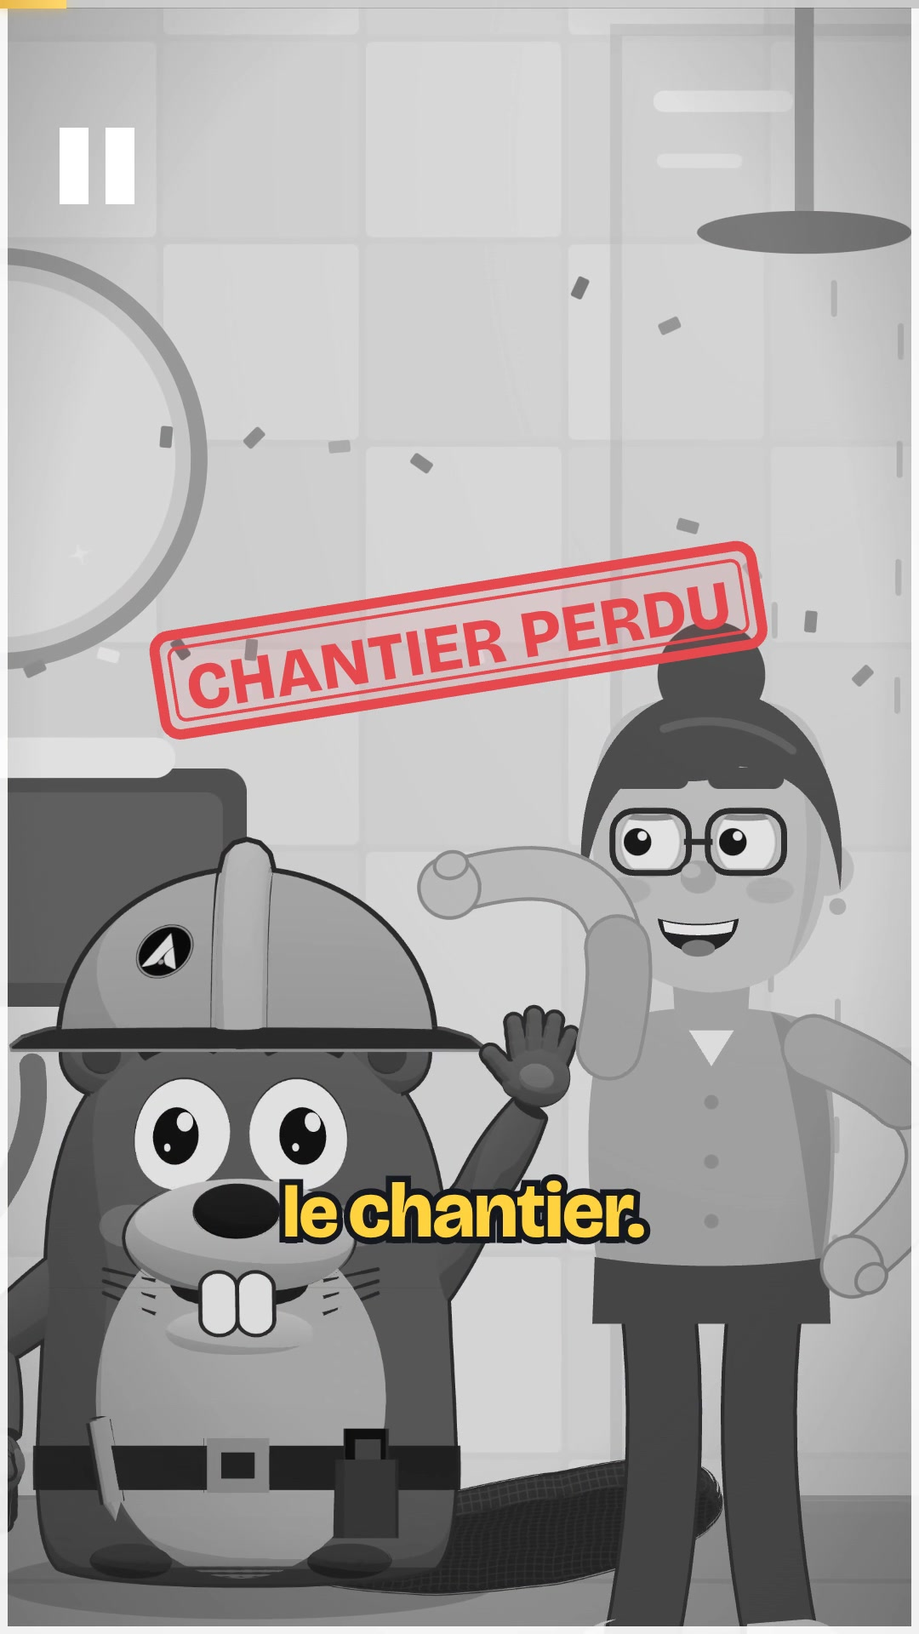
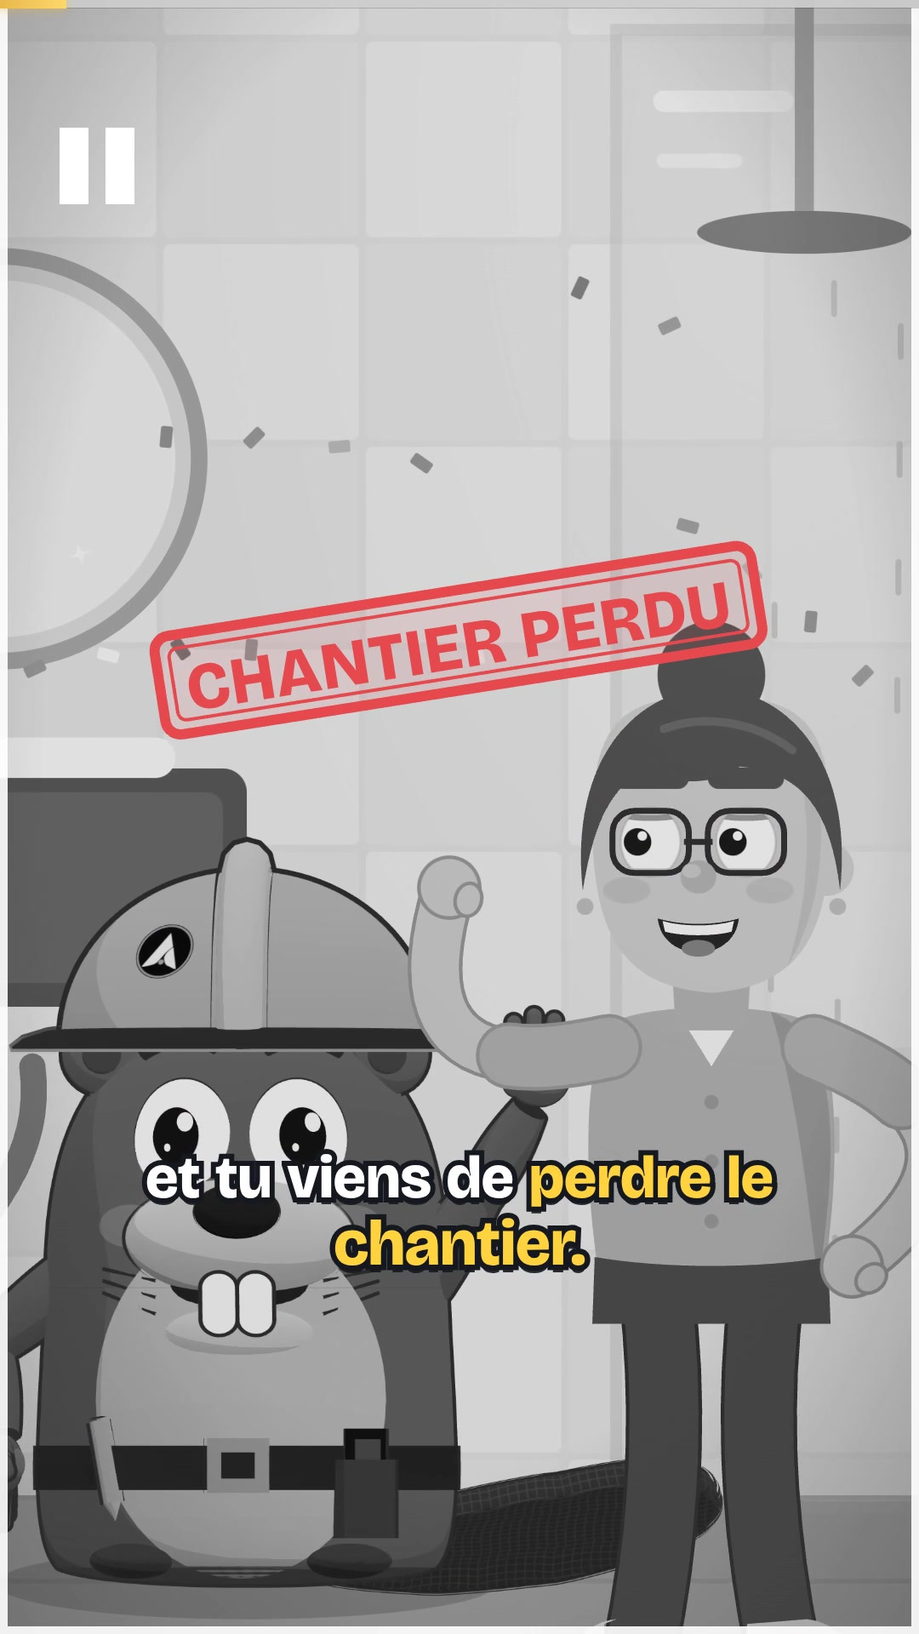
Épisode 2 V2 : bras de la cliente, flash-back 48 H AVANT, sous-titres sur deux lignes, coupe du Toi et des bruits parasites, nouvelle phrase finale
Claude-Session: https://claude.ai/code/session_01QEecSGPaSS2i4pfHtVUcyd

Changed region(s): [[0.1528, 0.5, 0.8556, 0.7812]]

diff --git a/aurea-media/creations/episodes/ep02/scenes.js b/aurea-media/creations/episodes/ep02/scenes.js
@@ -79,6 +79,9 @@ function construireScenes() {
     <filter id="nb"><feColorMatrix id="nbM" type="saturate" values="1"/></filter>
     <filter id="flouFond" x="-5%" y="-5%" width="110%" height="110%"><feGaussianBlur stdDeviation="5"/></filter>
     <filter id="flouPhoto" x="-20%" y="-20%" width="140%" height="140%"><feGaussianBlur stdDeviation="7"/></filter>
+    <filter id="fb" x="-8%" y="-8%" width="116%" height="116%"><feTurbulence id="fbTurb" type="fractalNoise" baseFrequency="0.005 0.02" numOctaves="2" seed="7" result="n"/><feDisplacementMap id="fbDisp" in="SourceGraphic" in2="n" scale="0" xChannelSelector="R" yChannelSelector="G" result="d"/><feColorMatrix id="fbSep" in="d" type="matrix" values="1 0 0 0 0  0 1 0 0 0  0 0 1 0 0  0 0 0 1 0"/></filter>
+    <radialGradient id="fbVig" cx=".5" cy=".46" r=".72"><stop offset=".55" stop-color="#2a1606" stop-opacity="0"/><stop offset="1" stop-color="#2a1606" stop-opacity=".85"/></radialGradient>
+    <radialGradient id="fbFuite" cx="1" cy="0" r="1"><stop offset="0" stop-color="#ffb347" stop-opacity=".75"/><stop offset=".5" stop-color="#ff7a2c" stop-opacity=".2"/><stop offset="1" stop-color="#ff7a2c" stop-opacity="0"/></radialGradient>
     <filter id="vhs"><feOffset dx="7" in="SourceGraphic" result="r"/><feColorMatrix in="r" type="matrix" values="1 0 0 0 0  0 0 0 0 0  0 0 0 0 0  0 0 0 1 0" result="rr"/><feOffset dx="-7" in="SourceGraphic" result="b"/><feColorMatrix in="b" type="matrix" values="0 0 0 0 0  0 1 0 0 0  0 0 1 0 0  0 0 0 1 0" result="bb"/><feBlend in="rr" in2="bb" mode="screen"/></filter>
     <linearGradient id="gCiel" x1="0" y1="0" x2="0" y2="1"><stop offset="0" stop-color="#6cc0f2"/><stop offset=".7" stop-color="#bfe3f7"/><stop offset="1" stop-color="#ffe2b8"/></linearGradient>
     <linearGradient id="gTitane" x1="0" y1="0" x2="1" y2="1"><stop offset="0" stop-color="#e2ded6"/><stop offset=".15" stop-color="#8e8a82"/><stop offset=".45" stop-color="#3a3835"/><stop offset=".7" stop-color="#55524d"/><stop offset=".9" stop-color="#a19c93"/><stop offset="1" stop-color="#e2ded6"/></linearGradient>
@@ -165,7 +168,7 @@ function construireScenes() {
 const T = {};
 function reperes() {
   T.gel = M('l00', 7) - .04; T.tamp = M('l00', 11) - .02;
-  T.rw = P('l01') - .45; T.j = P('l02') - .12; T.g = P('l03') - .12; T.ap = P('l06') - .1; T.v = P('l07') - .1;
+  T.rw = P('l01') - .8; T.j = P('l02') - .12; T.g = P('l03') - .12; T.ap = P('l06') - .1; T.v = P('l07') - .1;
   T.fa = P('l08') - .1; T.vi = P('l09') - .1; T.w = P('l10') - .1; T.wJ = M('l10', 10) + .1; T.fi = P('l11') - .1; T.sd = P('l12') - .1; T.fin = CAL.finTexte;
 }
 function rendre(t) {
@@ -193,7 +196,7 @@ function rendre(t) {
   fx += lignesVitesse(t, T.g - .05, .4, 540, 960, '#fff', .6) + lignesVitesse(t, T.w - .05, .4, 540, 960, '#fff', .6);
   $('ui-fx').innerHTML = fx + window._uiSdb + window._uiTampon;
   rendreSousTitres(t);
-  $('st').style.opacity = t >= T.fin - .05 ? 0 : 1;
+  if (t >= T.fin - .05) $('st').style.opacity = 0;
   $('progression').firstElementChild.style.width = (clamp(t / CAL.duree) * 100) + '%';
 }
 
@@ -202,7 +205,7 @@ function rSdb(t) {
   let fx = '';
   const fin = t >= T.sd;
   const gele = !fin && t >= T.gel && t < T.rw, tt = gele ? T.gel : t;       // arrêt sur image
-  const rewind = !fin && t >= T.rw && t < P('l01') + .05;
+  const flashback = !fin && t >= T.rw;
   let cam;
   if (!fin) cam = piste(tt, [[0, { x: 540, y: 980, z: 1.08 }], [M('l00', 3), { x: 540, y: 930, z: 1.18 }, E.sine], [T.gel, { x: 560, y: 860, z: 1.28 }, E.sine], [P('l01'), { x: 600, y: 900, z: 1.2 }], [F('l01') + .3, { x: 640, y: 880, z: 1.32 }, E.sine]]);
   else cam = piste(t, [[T.sd, { x: 540, y: 820, z: 1.45 }], [T.fin, { x: 540, y: 960, z: 1.06 }, E.io]]);
@@ -237,8 +240,8 @@ function rSdb(t) {
     // fin douce : Gaspard fier devant son chantier, lumière chaude
     Object.assign(g, { x: 540, y: 1520, s: 1.12, tourne: .25, mainD: { x: 230, y: -330 }, formeD: 'pouce', coudeD: 1, mainG: { x: -210, y: -170 }, bouche: 'sourire', paup: .12, sourcils: .4, regardX: 0 });
     c.x = 2000;
-    fx += motCle(540, 380, 'Bon travail.', t, M('l12', 2) - .1, 1.2, '#ffd23f', 104, -3);
-    fx += etincelles(540, 600, t, M('l12', 4), 10, 300, '#ffd23f', 1);
+    fx += motCle(540, 380, 'Exceptionnel.', t, M('l12', 5) - .1, 1.3, '#ffd23f', 104, -3);
+    fx += etincelles(540, 600, t, M('l12', 5), 10, 300, '#ffd23f', 1);
   }
   PERS.gs.poser(g); PERS.cs.poser(c);
   $('sb-fx').innerHTML = fx;
@@ -246,13 +249,37 @@ function rSdb(t) {
   if (gele) { L.sdb.setAttribute('filter', 'url(#nb)'); attr('nbM', 'values', mix(1, 0, clamp((t - T.gel) / .1))); }
   let ui = '';
   if (gele) ui += `<rect width="1080" height="1920" fill="none" stroke="#fff" stroke-width="18" opacity=".9"/><g transform="translate(70,150)"><rect width="34" height="90" fill="#fff"/><rect x="54" width="34" height="90" fill="#fff"/></g>`;
-  if (rewind) {
-    const k = clamp((t - T.rw) / (P('l01') + .05 - T.rw));
-    L.sdb.setAttribute('filter', 'url(#vhs)');
-    tr(L.sdb, `translate(${Math.sin(t * 90) * 10},${(Math.sin(t * 37) > .7 ? 16 : 0)})`);
-    ui += Array.from({ length: 24 }, (_, i) => `<rect x="0" y="${i * 80 + ((t * 900) % 80)}" width="1080" height="4" fill="#fff" opacity=".12"/>`).join('');
-    ui += `<rect x="0" y="${(t * 2400) % 1920}" width="1080" height="70" fill="#fff" opacity=".18"/>`;
-    ui += `<g transform="translate(70,190)" opacity="${.6 + .4 * (Math.sin(t * 20) > 0)}"><path d="M70,0 L0,40 L70,80 Z M140,0 L70,40 L140,80 Z" fill="#fff"/><text x="170" y="64" font-family="Geist" font-weight="700" font-size="58" fill="#fff" letter-spacing="3">3 JOURS PLUS TÔT</text></g>`;
+  if (flashback) {
+    // flash-back « 48 H AVANT » : éclair blanc, l'image ondule comme un souvenir, puis sépia, vignette, grain et fuite de lumière
+    const fbA = P('l01') - .05, k = clamp((t - T.rw) / (fbA - T.rw)), onde = Math.sin(Math.PI * clamp(k * 1.1));
+    const sep = .8 * E.out(clamp(k * 1.4)), I = 1 - sep;
+    const S3 = [[.393, .769, .189], [.349, .686, .168], [.272, .534, .131]];
+    const m = S3.map((r, a) => r.map((v, b) => (I * (a === b ? 1 : 0) + sep * v * 1.05).toFixed(3)).join(' ') + ' 0 ' + (sep * .03).toFixed(3)).join('  ') + '  0 0 0 1 0';
+    L.sdb.setAttribute('filter', 'url(#fb)');
+    attr('fbSep', 'values', m);
+    attr('fbDisp', 'scale', (onde * 60).toFixed(1));
+    attr('fbTurb', 'baseFrequency', `${(.004 + .003 * k).toFixed(4)} ${(.02 + .008 * Math.sin(t * 11)).toFixed(4)}`);
+    tr(L.sdb, `translate(540,900) scale(${(1 + .22 * onde).toFixed(3)}) rotate(${(-5 * onde).toFixed(2)}) translate(-540,-900)`);
+    // éclair blanc à l'entrée
+    ui += `<rect width="1080" height="1920" fill="#fff" opacity="${(clamp(1 - Math.abs(t - T.rw - .06) / .22) * .95).toFixed(3)}"/>`;
+    // ambiance souvenir
+    ui += `<rect width="1080" height="1920" fill="url(#fbVig)" opacity="${sep.toFixed(3)}"/><rect width="1080" height="1920" fill="url(#fbFuite)" opacity="${(sep * (.55 + .25 * Math.sin(t * 2.3))).toFixed(3)}"/>`;
+    const img = Math.floor(t * 12);
+    for (let i = 0; i < 22; i++) { const h = Math.sin((img * 31 + i) * 12.9898) * 43758.5453, u = h - Math.floor(h), v = (h * 7.3) - Math.floor(h * 7.3); ui += `<circle cx="${(u * 1080).toFixed(0)}" cy="${(v * 1920).toFixed(0)}" r="${(1.5 + (i % 3) * 1.5).toFixed(1)}" fill="${i % 4 ? '#fff6e0' : '#2a1606'}" opacity="${(.5 * sep).toFixed(2)}"/>`; }
+    if (Math.sin(img * 3.7) > .6) ui += `<rect x="${(200 + (img * 97) % 700)}" y="0" width="2" height="1920" fill="#fff6e0" opacity="${(.35 * sep).toFixed(2)}"/>`;
+    // carton « 48 H AVANT » avec horloge qui tourne à l'envers, puis étiquette dans le coin
+    const ent = E.backS(clamp((t - T.rw - .08) / .35)), red = E.io(clamp((t - P('l01') - .45) / .4));
+    const cx = mix(540, 270, red), cy = mix(560, 190, red), sc = mix(1, .42, red) * ent;
+    const aig = -(t - T.rw) * 900;
+    ui += `<g transform="translate(${cx.toFixed(1)},${cy.toFixed(1)}) scale(${sc.toFixed(3)})" opacity="${clamp(ent * 1.5).toFixed(3)}">
+      <rect x="-460" y="-130" width="920" height="260" rx="34" fill="#1d1208" opacity=".82"/>
+      <rect x="-444" y="-114" width="888" height="228" rx="24" fill="none" stroke="#ffd23f" stroke-width="5" opacity=".9"/>
+      <g transform="translate(-320,0)"><circle r="84" fill="#fff6e0" stroke="#ffd23f" stroke-width="10"/>
+        ${Array.from({ length: 12 }, (_, i) => `<rect x="-3" y="-74" width="6" height="${i % 3 ? 10 : 18}" fill="#1d1208" transform="rotate(${i * 30})"/>`).join('')}
+        <rect x="-5" y="-62" width="10" height="62" rx="5" fill="#1d1208" transform="rotate(${(aig / 12).toFixed(1)})"/><rect x="-4" y="-74" width="8" height="74" rx="4" fill="#e5484d" transform="rotate(${aig.toFixed(1)})"/><circle r="9" fill="#1d1208"/>
+        <path d="M-118,-30 A120,120 0 0 1 -60,-104" fill="none" stroke="#ffd23f" stroke-width="10" stroke-linecap="round"/><path d="M-138,-44 L-116,-6 L-92,-42 Z" fill="#ffd23f"/></g>
+      <text x="-196" y="40" text-anchor="start" font-family="Bricolage" font-weight="800" font-size="118" fill="#ffd23f" letter-spacing="-2">48 H AVANT</text>
+    </g>`;
   }
   window._uiSdb = ui;
 }
@@ -286,12 +313,13 @@ function rJardin(t, mode) {
   } else if (mode === 'appel') {
     // le téléphone de Gaspard vibre : salto de joie sur « Toi »
     cam = piste(t, [[T.wJ, { x: 540, y: 1000, z: 1.5 }], [T.fi, { x: 540, y: 1040, z: 1.35 }, E.sine]]);
-    const toi = M('l10', 11) - .05, s = saut(t, toi, .26, 260), rot = t > toi ? 360 * E.io(clamp((t - toi) / .55)) : 0;
+    const toi = T.wJ + .4,   // salto quand le téléphone sonne (le « Toi » a été retiré)
+      s = saut(t, toi, .26, 260), rot = t > toi ? 360 * E.io(clamp((t - toi) / .55)) : 0;
     const h = 320, th = rot * Math.PI / 180;   // salto autour du centre du corps (et non des pieds)
     Object.assign(g, { x: 540 - h * Math.sin(th), y: 1580 + s.y - h + h * Math.cos(th), s: 1.0, sx: s.sx, sy: s.sy, rot, bouche: t > toi ? 'rire' : 'o', oeil: 1.15, paup: 0, sourcils: 1, mainD: { x: 165, y: -405 }, objetD: 'tel', formeD: 'tient', telCeinture: false, regardX: .5, regardY: -.2 });
     cl.x = 1800; vo.x = 2000;
-    fx += vibrations(540 + 200, 1580 - 420, t, t < toi, 80, '#3a1a06') + onomatopee(800, 600, 'DRIIING !', t, T.wJ, .6, '#ffd23f', 100, 8);
-    fx += motCle(540, 520, 'TOI.', t, toi, .9, '#ffd23f', 150, -6) + etincelles(540, 1100, t, toi + .5, 10, 300, '#ffd23f', .8);
+    fx += vibrations(540 + 200, 1580 - 420, t, t < toi, 80, '#3a1a06') + onomatopee(640, 600, 'DRIIING !', t, T.wJ, .6, '#ffd23f', 100, 8);
+    fx += etincelles(540, 1100, t, toi + .5, 10, 300, '#ffd23f', .8);
   } else {
     // final : tope là à trois, tampon CHANTIER GAGNÉ
     cam = piste(t, [[T.fi, { x: 540, y: 1060, z: 1.22 }], [T.sd, { x: 540, y: 1020, z: 1.34 }, E.sine]]);

diff --git a/aurea-media/creations/episodes/ep02/sous-titres.js b/aurea-media/creations/episodes/ep02/sous-titres.js
@@ -1,5 +1,7 @@
-// Sous-titres V2 : groupes courts (2 à 4 mots), apparition mot par mot avec rebond, mots-clés en jaune.
+// Sous-titres V3 : blocs plus longs (jusqu'à deux lignes, 8 mots) affichés d'un coup pour pouvoir lire en avance.
+// Le mot prononcé grossit légèrement, les mots déjà dits sont pleins, ceux à venir un peu atténués. Mots-clés en jaune.
 let GROUPES = [];
+const ST_MAX_CAR = 40, ST_MAX_MOTS = 8;
 function construireSousTitres(script, cal) {
   GROUPES = [];
   for (const ph of script.phrases) {
@@ -14,19 +16,22 @@ function construireSousTitres(script, cal) {
     });
     let g = [];
     const pousser = () => { if (g.length) GROUPES.push(g); g = []; };
-    const petits = /^(a|à|au|aux|de|du|des|d'un|le|la|les|l'.*|en|et|ton|ta|tes|ce|c'est|un|une|que|qui|sur|pour|avec|si|tu|il|t'es)$/i;
-    jet.forEach(j => {
-      const lng = g.reduce((a, x) => a + x.mot.length + 1, 0);
-      if (g.length && (g.length >= 3 || lng + j.mot.length > 15) && !(j.cle && g[g.length - 1].cle && lng + j.mot.length < 20)) {
-        const report = []; while (g.length > 1 && petits.test(g[g.length - 1].mot)) report.unshift(g.pop());
+    const lng = () => g.reduce((a, x) => a + x.mot.length + 1, 0);
+    jet.forEach((j, i) => {
+      if (g.length && (g.length >= ST_MAX_MOTS || lng() + j.mot.length > ST_MAX_CAR)) {
+        // on coupe de préférence après la dernière virgule du bloc, sinon avant les petits mots
+        let c = -1; for (let k = g.length - 1; k >= 2; k--) if (/[,:;]$/.test(g[k].mot)) { c = k; break; }
+        const report = c >= 0 ? g.splice(c + 1) : [];
         pousser(); g = report;
       }
       g.push(j);
-      if (/[.?!…]$/.test(j.mot)) pousser();
+      const reste = jet.slice(i + 1).reduce((a, x) => a + x.mot.length + 1, 0);
+      // fin de phrase : nouveau bloc, sauf si la suite est très courte et tient sur le même bloc
+      if (/[.?!…]$/.test(j.mot) && !(reste && lng() + reste <= 24 && g.length + jet.length - i - 1 <= 5)) pousser();
     });
     pousser();
   }
-  GROUPES.forEach((g, i) => { g.debut = g[0].debut - .05; g.fin = GROUPES[i + 1] ? Math.min(GROUPES[i + 1][0].debut - .05, g[g.length - 1].fin + .6) : g[g.length - 1].fin + .6; });
+  GROUPES.forEach((g, i) => { g.debut = g[0].debut - .12; g.fin = GROUPES[i + 1] ? Math.min(GROUPES[i + 1][0].debut - .12, g[g.length - 1].fin + .7) : g[g.length - 1].fin + .7; });
 }
 let groupeAffiche = -1;
 function rendreSousTitres(t) {
@@ -35,11 +40,15 @@ function rendreSousTitres(t) {
   if (i !== groupeAffiche) { st.innerHTML = i < 0 ? '' : GROUPES[i].map((j, k) => `<span class="m${j.cle ? ' cle' : ''}" id="stm${k}">${j.mot}</span>`).join(''); groupeAffiche = i; }
   if (i < 0) return;
   const g = GROUPES[i];
+  const a = clamp((t - g.debut) / .16), s = E.backS(a);
+  st.style.transform = `translateY(${((1 - a) * 30).toFixed(1)}px) scale(${(.85 + .15 * s).toFixed(3)})`;
+  st.style.opacity = clamp(a * 2);
   g.forEach((j, k) => {
     const e = $('stm' + k); if (!e) return;
-    const a = clamp((t - j.debut + .03) / .2), s = E.backS(a);
-    const actif = t >= j.debut && t < j.fin + .05;
-    e.style.opacity = clamp(a * 2.5);
-    e.style.transform = `translateY(${(1 - a) * 40}px) scale(${(.5 + .5 * s) * (actif ? 1.06 : 1)}) rotate(${(1 - a) * (k % 2 ? 6 : -6)}deg)`;
+    const actif = t >= j.debut - .02 && t < j.fin + .04;
+    const dit = t >= j.debut - .02;
+    const pic = actif ? Math.sin(Math.PI * clamp((t - j.debut + .02) / .18)) : 0;
+    e.style.opacity = dit ? 1 : .72;
+    e.style.transform = `translateY(${(-pic * 6).toFixed(1)}px) scale(${(1 + .07 * (actif ? 1 : 0) + .05 * pic).toFixed(3)})`;
   });
 }

diff --git a/aurea-media/creations/episodes/ep02/episode.html b/aurea-media/creations/episodes/ep02/episode.html
@@ -17,8 +17,8 @@ html,body{margin:0;background:#000}
 #tel .encoche:after{content:"";position:absolute;right:16px;top:11px;width:12px;height:12px;border-radius:50%;background:radial-gradient(circle at 35% 35%,#3a4a6a,#0a0d14 60%)}
 #tel .refletBox{position:absolute;inset:12px;border-radius:54px;overflow:hidden;pointer-events:none;z-index:21;box-shadow:inset 0 0 0 1px rgba(0,0,0,.55);background:linear-gradient(128deg,rgba(255,255,255,.13) 0%,rgba(255,255,255,0) 28%,rgba(255,255,255,0) 72%,rgba(255,255,255,.05) 100%)}
 #telReflet{position:absolute;top:-200px;left:0;width:150px;height:1300px;background:linear-gradient(90deg,rgba(255,255,255,0),rgba(255,255,255,.16),rgba(255,255,255,0))}
-#st{position:absolute;left:90px;right:90px;top:1300px;height:250px;display:flex;flex-wrap:wrap;justify-content:center;align-content:center;gap:0 22px;pointer-events:none}
-#st .m{font:800 86px/1.06 "Bricolage";letter-spacing:-.015em;color:#fff;display:inline-block;transform-origin:50% 90%;-webkit-text-stroke:14px #15181e;paint-order:stroke fill;text-shadow:0 8px 0 rgba(21,24,30,.9)}
+#st{position:absolute;left:70px;right:70px;top:1290px;height:270px;display:flex;flex-wrap:wrap;justify-content:center;align-content:center;gap:4px 18px;pointer-events:none;transform-origin:50% 50%}
+#st .m{font:800 70px/1.08 "Bricolage";letter-spacing:-.01em;color:#fff;display:inline-block;transform-origin:50% 90%;-webkit-text-stroke:12px #15181e;paint-order:stroke fill;text-shadow:0 8px 0 rgba(21,24,30,.9)}
 #st .m.cle{color:#ffd23f}
 #progression{position:absolute;left:0;right:0;top:0;height:10px;background:rgba(0,0,0,.18)}#progression i{display:block;height:100%;width:0;background:linear-gradient(90deg,#e8b84a,#ffd86b);box-shadow:0 0 12px rgba(232,184,74,.8)}
 #flash{position:absolute;inset:0;background:#fff;opacity:0;pointer-events:none}

diff --git a/aurea-media/creations/episodes/ep02/pantin.js b/aurea-media/creations/episodes/ep02/pantin.js
@@ -187,7 +187,11 @@ class Pantin {
     for (const [cote, sx] of [['G', -1], ['D', 1]]) {
       const S = rotP(sx * 86, -206);
       const M = p['main' + cote];
-      const E = this.articulation(S, M, 128, 122, p['coude' + cote]);
+      // Coude naturel : des deux solutions, on garde celle qui part vers l'extérieur et vers le bas
+      // (le sens fixe faisait rentrer le coude dès que la main passait au-dessus de l'épaule).
+      const E1 = this.articulation(S, M, 128, 122, 1), E2 = this.articulation(S, M, 128, 122, -1);
+      const note = Q => sx * (Q.x - S.x) + .6 * (Q.y - S.y);
+      const E = note(E1) >= note(E2) ? E1 : E2;
       const fin = this.surTube(S, E, M, .27);
       const milieu = this.surTube(S, E, M, .14);
       let s = this.tube(S, E, M, 40, c.peau, c.peauTrait);

diff --git a/aurea-media/creations/episodes/ep02/son.py b/aurea-media/creations/episodes/ep02/son.py
@@ -20,7 +20,7 @@ rng = np.random.default_rng(2026)
 P = lambda i: PH[i]["debut"]; F = lambda i: PH[i]["fin"]
 def Mo(i, k): m = PH[i]["mots"]; return m[min(k, len(m) - 1)]["debut"]
 # repères identiques à scenes.js (épisode 2)
-T = dict(gel=Mo("l00", 7) - .04, tamp=Mo("l00", 11) - .02, rw=P("l01") - .45, j=P("l02") - .12, g=P("l03") - .12, ap=P("l06") - .1, v=P("l07") - .1,
+T = dict(gel=Mo("l00", 7) - .04, tamp=Mo("l00", 11) - .02, rw=P("l01") - .8, j=P("l02") - .12, g=P("l03") - .12, ap=P("l06") - .1, v=P("l07") - .1,
          fa=P("l08") - .1, vi=P("l09") - .1, w=P("l10") - .1, wJ=Mo("l10", 10) + .1, fi=P("l11") - .1, sd=P("l12") - .1,
          fin=CAL["finTexte"] if "finTexte" in CAL else F("l12") + .4)
 ML, MR, SL, SR_ = (np.zeros(N) for _ in range(4))
@@ -155,7 +155,10 @@ for k in range(int(T["gel"] / (B / 2)) + 1):
     ajoute(charley(.4), tt, pan=.35, mus=True)
 ajoute(scratch(1.1), T["gel"] - .02)
 # B. Retour en arrière : glissando inversé, puis groove doux pendant la salle de bain et la haie
-ajoute(glissando(.45, .45)[::-1], T["rw"])
+# flash-back : souffle qui monte, arpège de glockenspiel vers l'aigu, cloche douce à l'arrivée dans le souvenir
+_d = .7; _x = X(_d); ajoute(bp(bruit(_d), 2400, .7) * (_x / _d) ** 2 * .35, T["rw"] - .05)
+for _i, _n in enumerate([84, 88, 91, 96, 100, 103]): ajoute(glock(_n, .35), T["rw"] + .05 + _i * .06, pan=(_i - 2.5) * .12)
+ajoute(carillon([76, 83], .3), P("l01") - .1)
 basse = [48, 55, 52, 55, 45, 52, 48, 52]; acc = [[60, 64, 67], [57, 60, 64]]
 x0 = P("l01") - .05
 while x0 < T["g"]:
@@ -220,7 +223,7 @@ tope = Mo("l00", 4)
 ajoute(claque(1.2), tope); ajoute(pop(1400, .5), tope + .02)
 for i in range(8): ajoute(pop(1600 + 120 * i, .14), tope + .05 + i * .04, pan=(i - 4) * .15)
 ajoute(impact(.7), T["gel"]); ajoute(tampon_son(1.), T["tamp"])
-ajoute(whoosh(.45, 4000, 300, .5), T["rw"]); ajoute(bp(bruit(.45), 1800, .6) * .25, T["rw"])     # bande qui rembobine
+ajoute(whoosh(.6, 600, 5000, .45), T["rw"])                                                         # entrée dans le souvenir
 for i in range(4): ajoute(tinte(.22), P("l01") + .3 + i * .35, pan=.4)                              # cœurs
 ajoute(whoosh(.35, 300, 2600, .5), T["j"]); ajoute(page(.6), Mo("l02", 3))                          # post-it
 ajoute(whoosh(.4, 400, 3000, .6), T["g"] - .05)
@@ -237,11 +240,11 @@ for i, d in enumerate((.2, .55, .9)): ajoute(osc(220, .18) * env(int(.18 * SR), 
 ajoute(glissando(.7, .35)[::-1], T["fa"]); ajoute(tampon_son(.7), Mo("l08", 7) - .1)
 for k in (6, 8, 10, 12): ajoute(pop(1100 + k * 25, .5), Mo("l09", k) - .1, pan=-.2); ajoute(bloc(.3, 700), Mo("l09", k) + .02)
 ajoute(whoosh(.4, 400, 3000, .6), T["w"] - .05); ajoute(clic(1.), Mo("l10", 10) - .15)
-ajoute(sonnerie(.8, 1.), T["wJ"]); ajoute(boing(260, .6, .5), Mo("l10", 11) - .05); ajoute(whoosh(.5, 300, 3500, .6), Mo("l10", 11))
+ajoute(sonnerie(.8, 1.), T["wJ"]); ajoute(boing(260, .6, .5), T["wJ"] + .35); ajoute(whoosh(.5, 300, 3500, .6), T["wJ"] + .4)
 ajoute(claque(1.3), Mo("l11", 4) - .1); ajoute(impact(.5), Mo("l11", 4) - .1)
 for i in range(8): ajoute(pop(1700 + 140 * i, .14), Mo("l11", 4) + i * .04, pan=(i - 4) * .15)
 ajoute(tampon_son(.9), Mo("l11", 9) - .1)
-ajoute(tinte(.3), Mo("l12", 4)); ajoute(whoosh(.3, 4000, 600, .4), T["fin"] - .1); ajoute(boing(240, .5, .5), T["fin"] + .55)
+ajoute(tinte(.3), Mo("l12", 5)); ajoute(whoosh(.3, 4000, 600, .4), T["fin"] - .1); ajoute(boing(240, .5, .5), T["fin"] + .55)
 
 # ================= VOIX ET MIXAGE =================
 with wave.open(str(ICI / "voix-mix.wav")) as w:

diff --git a/aurea-media/creations/episodes/ep02/calage.py b/aurea-media/creations/episodes/ep02/calage.py
@@ -14,7 +14,7 @@ TEL = Path(sys.argv[2])
 script = json.loads((ICI / "script.json").read_text())
 # respirations entre les répliques (le montage s'adapte à la voix ; aucune accélération de la voix)
 PAUSE = .4
-PAUSES = {"l00": .55, "l03": .32, "l04": .3, "l05": .45, "l06": .7, "l08": .45, "l10": .5, "l11": .55}
+PAUSES = {"l00": .9, "l03": .32, "l04": .3, "l05": .45, "l06": .7, "l08": .45, "l10": .95, "l11": .55}
 # V4 : chaîne douce anti grésillements (aucun rehaussement au-dessus de 8 kHz, zone où le vocodeur crépite)
 CHAINE = ("adeclick=w=55:o=75:t=2,highpass=f=85:p=2,lowpass=f=10500:p=2,afftdn=nr=6:nf=-52:tn=1,"
           "equalizer=f=150:t=q:w=0.9:g=2,equalizer=f=320:t=q:w=1.2:g=-2.5,equalizer=f=2800:t=q:w=1.0:g=1.5,"
@@ -51,6 +51,13 @@ for ph in script["phrases"]:
         if fus and (w["w"].startswith("'") or fus[-1]["w"].endswith("'")): fus[-1] = {"w": fus[-1]["w"] + w["w"], "a": fus[-1]["a"], "b": w["b"]}
         else: fus.append(dict(w))
     mots_w = fus
+    # une ponctuation seule (« ? ») n'est pas un mot : Whisper l'étire parfois sur les bruits parasites qui suivent
+    mots_w = [w for w in mots_w if not re.fullmatch(r"[?!:;.,…\s-]+", w["w"])]
+    # « garder » : on ne conserve que les N premiers mots (coupe propre avant le mot suivant)
+    limite = None
+    if ph.get("garder"):
+        if len(mots_w) > ph["garder"]: limite = mots_w[ph["garder"]]["a"] - .04
+        mots_w = mots_w[:ph["garder"]]
     toks = jetons(ph["sous_titre"])
     if len(mots_w) == len(toks):
         mots = [{"debut": round(t + w["a"], 3), "fin": round(t + w["b"], 3)} for w in mots_w]
@@ -65,7 +72,7 @@ for ph in script["phrases"]:
         groupe = []
         for k, (tok, m) in enumerate(zip(toks, mots)):
             groupe.append((tok, m))
-            if len(groupe) >= 4 or k == len(toks) - 1 or re.search(r"[.?!:]$", tok):
+            if len(groupe) >= 8 or sum(len(x) + 1 for x, _ in groupe) > 36 or k == len(toks) - 1 or re.search(r"[.?!:]$", tok):
                 srt.append((groupe[0][1]["debut"], groupe[-1][1]["fin"] + .15, " ".join(x for x, _ in groupe))); groupe = []
     print(f"{ph['id']:5s} {t:6.2f}  {d:5.2f} s  {'OK ' if best['ok'] else 'À ÉCOUTER'} sim {best.get('sim', 0):.3f}  « {best['heard']} »")
     # coupe après le dernier mot prononcé : fin de la syllabe en cours (énergie), puis 80 ms ; supprime les bribes parasites
@@ -73,7 +80,11 @@ for ph in script["phrases"]:
     _x, _sr = _sf.read(str(wav)); _x = _x.mean(1) if _x.ndim > 1 else _x
     _h = int(.02 * _sr); _e = _np.array([_np.sqrt(_np.mean(_x[i:i + _h] ** 2)) for i in range(0, len(_x) - _h, _h)]); _k = int((mots_w[-1]["b"] if mots_w else d) / .02)
     while _k < len(_e) and _e[_k] > _e.max() * .05: _k += 1
-    fins[wav] = min(d, (_k + 4) * .02); d = fins[wav]
+    fins[wav] = min(d, (_k + 4) * .02)
+    if limite is not None:   # point le plus calme entre la fin du dernier mot gardé et le mot suivant
+        a, b = int(mots_w[-1]["b"] / .02), max(int(mots_w[-1]["b"] / .02) + 1, int(limite / .02))
+        fins[wav] = min(fins[wav], (a + int(_np.argmin(_e[a:b]))) * .02 + .02)
+    d = fins[wav]
     morceaux.append((wav, PAUSES.get(ph["id"], PAUSE), ph.get("voix", "alexandre")))
     t += d + PAUSES.get(ph["id"], PAUSE)
 
